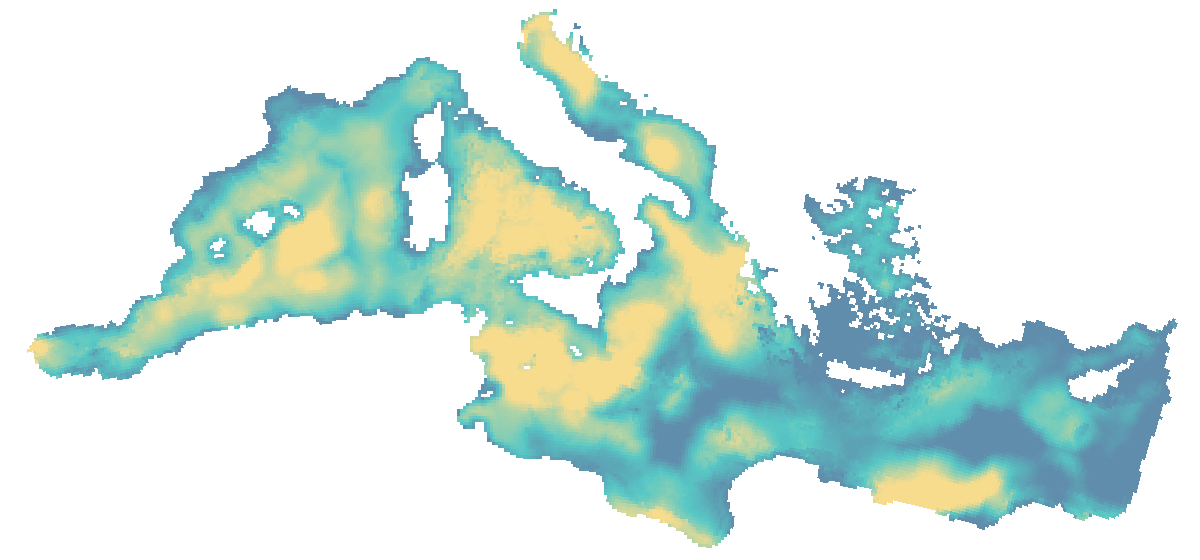
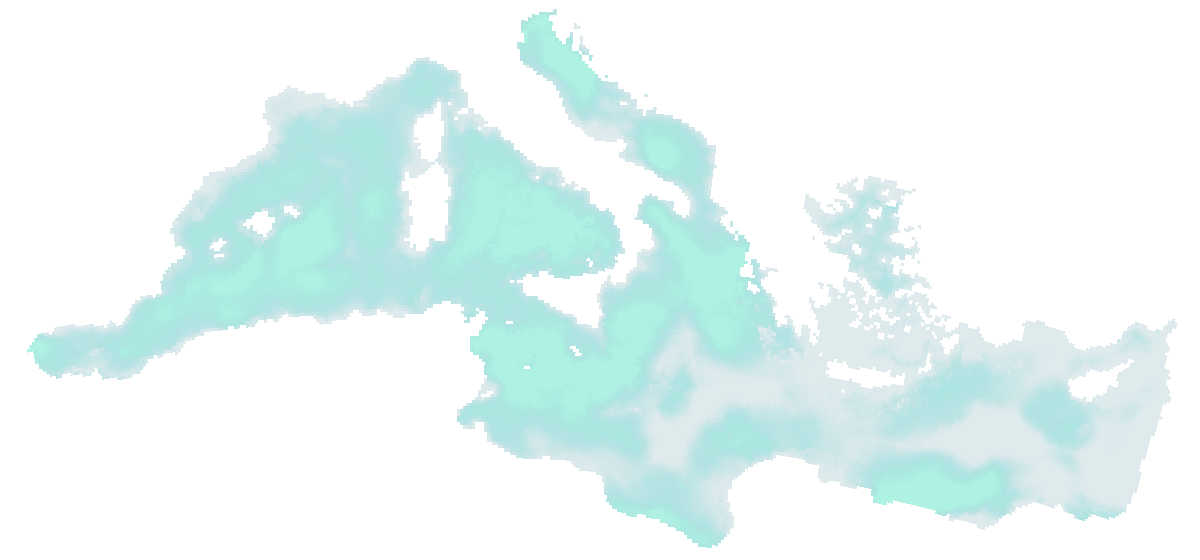
Restore illustrated flow and soften turtle model view (#17)

diff --git a/src/MapView.tsx b/src/MapView.tsx
@@ -22,10 +22,10 @@ function fallbackPosition(longitude: number, latitude: number): [number, number]
     (north - latitude) / (north - south) * fallbackHeight];
 }
 
-function fallbackLandPath(): string {
+function fallbackLandPath(position: (longitude: number, latitude: number) => [number, number]): string {
   const features = land.type === 'FeatureCollection' ? land.features : [land];
   const ringPath = (ring: number[][]) => ring.map(([lon, lat], index) => {
-    const [x, y] = fallbackPosition(lon, lat);
+    const [x, y] = position(lon, lat);
     return `${index ? 'L' : 'M'}${x.toFixed(1)},${y.toFixed(1)}`;
   }).join('') + 'Z';
   return features.flatMap(item => {
@@ -35,7 +35,27 @@ function fallbackLandPath(): string {
   }).join('');
 }
 
-const fallbackCoast = fallbackLandPath();
+const fallbackCoast = fallbackLandPath(fallbackPosition);
+
+function illustrativeFallback(selected: SpeciesDataset) {
+  const cells = [...selected.habitat.current, ...selected.habitat.future];
+  const west = Math.min(...cells.map(cell => cell.center[0] - cell.widthDeg / 2)) - 6;
+  const east = Math.max(...cells.map(cell => cell.center[0] + cell.widthDeg / 2)) + 6;
+  const south = Math.min(...cells.map(cell => cell.center[1] - cell.heightDeg / 2)) - 5;
+  const north = Math.max(...cells.map(cell => cell.center[1] + cell.heightDeg / 2)) + 5;
+  const position = (lon: number, lat: number): [number, number] => [
+    (lon - west) / (east - west) * fallbackWidth,
+    (north - lat) / (north - south) * fallbackHeight
+  ];
+  const path = (points: [number, number][]) => points.map(([lon, lat], index) => {
+    const [x, y] = position(lon, lat);
+    return `${index ? 'L' : 'M'}${x.toFixed(1)},${y.toFixed(1)}`;
+  }).join('');
+  return { position, path, coast: fallbackLandPath(position),
+    current: displayCells(selected, 'current'), future: displayCells(selected, 'future'),
+    currentCenters: selected.habitat.current, futureCenters: selected.habitat.future,
+    strands: displayStreamlines(selected).filter((_, index) => index % 3 === 0) };
+}
 
 const graticule = {
   type: 'FeatureCollection' as const,
@@ -76,8 +96,8 @@ function flowSegments(flow: DisplayFlow, start: number, end: number): Segment[] 
   }).filter((segment): segment is Segment => segment !== null);
 }
 
-export function MapView({ selected }: { selected: SpeciesDataset }) {
-  const realLayer = selected.id === 'loggerhead-turtle';
+export function MapView({ selected, showModel }: { selected: SpeciesDataset; showModel: boolean }) {
+  const realLayer = showModel;
   const container = useRef<HTMLDivElement>(null);
   const map = useRef<maplibregl.Map | null>(null);
   const overlay = useRef<MapLibreOverlay | null>(null);
@@ -298,6 +318,8 @@ export function MapView({ selected }: { selected: SpeciesDataset }) {
     return () => cancelAnimationFrame(frame);
   }, [selected, ready, realLayer]);
 
+  const demoFallback = webglUnavailable && !realLayer ? illustrativeFallback(selected) : null;
+
   return (
     <div className="map-wrap">
       <div ref={container} className="map-canvas" style={webglUnavailable ? { display: 'none' } : undefined} role="img" aria-label={realLayer ? `Mapa de zonas de abundancia relativa modelada de tortuga boba en el Mediterráneo, promedio anual de 2003 a 2018. Las zonas sin color carecen de estimación; no hay proyección a 2050.` : `Mapa de hábitat ilustrativo actual y en 2050 para ${selected.commonNameEs}; los trazos aparecen en las celdas actuales y avanzan hasta las de 2050, sin rutas permanentes ni trayectorias reales de animales`} />
@@ -308,7 +330,18 @@ export function MapView({ selected }: { selected: SpeciesDataset }) {
           <path d={fallbackCoast} fill="#bbccc9" fillRule="evenodd" stroke="#e1eae0" strokeWidth="1.5" />
         </svg>
         <div className="fallback-note">Modelo de abundancia relativa · vista simplificada sin WebGL2</div>
-      </div> : <div className="fallback-map fallback-message">El mapa ilustrativo requiere WebGL2. Prueba otro navegador para verlo.</div>)}
+      </div> : demoFallback && <div className="fallback-map">
+        <svg viewBox={`0 0 ${fallbackWidth} ${fallbackHeight}`} role="img" aria-label={`Flujos ilustrativos para ${selected.commonNameEs}; los trazos no son rutas reales`}>
+          <rect width={fallbackWidth} height={fallbackHeight} fill="#071c29" />
+          <path d={demoFallback.coast} fill="#bbccc9" fillRule="evenodd" stroke="#e1eae0" strokeWidth="1.5" />
+          {demoFallback.current.map(cell => <path key={`now-${cell.id}`} d={`${demoFallback.path(cell.polygon)}Z`} fill="#50dcdd" fillOpacity=".13" stroke="#83e9df" strokeOpacity=".5" />)}
+          {demoFallback.future.map(cell => <path key={`then-${cell.id}`} d={`${demoFallback.path(cell.polygon)}Z`} fill="#fc9dcb" fillOpacity=".09" stroke="#f7a3cd" strokeOpacity=".5" />)}
+          {demoFallback.strands.map((strand, index) => <path key={strand.id} className="fallback-flow" d={demoFallback.path(strand.path)} pathLength="1" style={{ animationDelay: `${-(index * .618 % 1) * 5}s` }} />)}
+          {demoFallback.currentCenters.map(cell => { const [x, y] = demoFallback.position(...cell.center); return <circle key={`start-${cell.id}`} cx={x} cy={y} r="3" fill="#83f3e5" />; })}
+          {demoFallback.futureCenters.map(cell => { const [x, y] = demoFallback.position(...cell.center); return <circle key={`end-${cell.id}`} cx={x} cy={y} r="3" fill="#ffa8d0" />; })}
+        </svg>
+        <div className="fallback-note">Flujo ilustrativo · vista simplificada sin WebGL2</div>
+      </div>)}
       <div className="map-stamp"><span className="pulse" /> {realLayer ? 'MODELO CIENTÍFICO · 2003–2018' : 'FLUJOS ILUSTRATIVOS · DATOS SINTÉTICOS'}</div>
       <div className="map-credit">Siluetas geográficas: Natural Earth / world-atlas · Sin teselas externas</div>
       {hover && <div className="map-tooltip" style={{ left: hover.x + 14, top: hover.y + 14 }}>

diff --git a/src/App.tsx b/src/App.tsx
@@ -12,8 +12,10 @@ const groups = [
 
 export default function App() {
   const [selectedId, setSelectedId] = useState('loggerhead-turtle');
+  const [showModel, setShowModel] = useState(false);
   const selected = species.find(item => item.id === selectedId) ?? species[0];
-  const realLayer = selected.id === 'loggerhead-turtle';
+  const realLayer = selected.id === 'loggerhead-turtle' && showModel;
+  const chooseSpecies = (id: string) => { setSelectedId(id); setShowModel(false); };
 
   return (
     <div className="app-shell">
@@ -26,16 +28,16 @@ export default function App() {
         <aside className="selector-panel" aria-label="Selección de especie">
           <div className="section-index">01 / EXPLORAR</div>
           <h2>Un océano.<br /><em>Muchas posibilidades.</em></h2>
-          <p className="intro">La tortuga boba muestra zonas estimadas a partir de muestreos científicos del Mediterráneo. Las otras especies siguen siendo ejemplos visuales.</p>
+          <p className="intro">Explora los flujos visuales de cada especie. Para la tortuga boba también puedes consultar una capa real de distribución modelada en el Mediterráneo.</p>
           <div className="fine-rule" />
           <label className="field-label" htmlFor="species-select">SELECCIONA UNA ESPECIE</label>
-          <select id="species-select" value={selectedId} onChange={event => setSelectedId(event.target.value)}>
+          <select id="species-select" value={selectedId} onChange={event => chooseSpecies(event.target.value)}>
             {species.map(item => <option value={item.id} key={item.id}>{item.commonNameEs}</option>)}
           </select>
           <div className="species-list" aria-label="Especies disponibles">
             {groups.filter(group => species.some(item => group.id === 'other' ? !item.group : item.group === group.id)).map(group => <div className="species-group" key={group.id}>
               <div className="species-group-label">{group.label}</div>
-              {species.filter(item => group.id === 'other' ? !item.group : item.group === group.id).map(item => <button key={item.id} type="button" className={`species-row ${selected.id === item.id ? 'active' : ''}`} aria-pressed={selected.id === item.id} onClick={() => setSelectedId(item.id)}>
+              {species.filter(item => group.id === 'other' ? !item.group : item.group === group.id).map(item => <button key={item.id} type="button" className={`species-row ${selected.id === item.id ? 'active' : ''}`} aria-pressed={selected.id === item.id} onClick={() => chooseSpecies(item.id)}>
                 <span className="species-number">{String(species.indexOf(item) + 1).padStart(2, '0')}</span><span className="species-text"><strong>{item.commonNameEs}</strong><small>{item.scientificName}</small></span><span className="species-arrow" aria-hidden="true">↗</span>
               </button>)}
             </div>)}
@@ -44,9 +46,9 @@ export default function App() {
         </aside>
 
         <section className="map-panel" aria-label="Comparación de hábitat">
-          <div className="map-header"><div><div className="section-index">02 / VISUALIZAR</div><h2>{realLayer ? 'Zonas estimadas en el Mediterráneo' : 'Un océano en movimiento'}</h2></div><div className="coordinates">{realLayer ? '2003–2018' : <>ACTUAL <span>→</span> 2050</>}</div></div>
+          <div className="map-header"><div><div className="section-index">02 / VISUALIZAR</div><h2>{realLayer ? 'Zonas estimadas en el Mediterráneo' : 'Un océano en movimiento'}</h2></div><div className="map-header-actions">{selected.id === 'loggerhead-turtle' && <button className="view-switch" type="button" onClick={() => setShowModel(value => !value)}>{realLayer ? '← Volver al flujo' : 'Ver modelo científico →'}</button>}<div className="coordinates">{realLayer ? '2003–2018' : <>ACTUAL <span>→</span> 2050</>}</div></div></div>
           <div className="map-stage">
-            <MapView selected={selected} />
+            <MapView selected={selected} showModel={realLayer} />
             {realLayer ? <div className="flow-key real-key" aria-label="Colores: abundancia relativa modelada de menor a mayor"><span><i className="density-key" /> Zonas modeladas · menor → mayor</span></div> : <div className="flow-key" aria-label="Turquesa: hábitat actual; rosa: hábitat en 2050">
               <span><i className="flow-key-current" /> Actual</span>
               <b aria-hidden="true">→</b>

diff --git a/src/styles.css b/src/styles.css
@@ -18,4 +18,11 @@
 @media(max-width:850px){.source-note{margin-top:15px}}
 
 .fallback-map{position:absolute;inset:0;display:grid;place-items:center;background:#0b3245}.fallback-map svg{display:block;width:100%;height:100%}.fallback-note{position:absolute;left:14px;bottom:18px;max-width:calc(100% - 28px);background:#071f2deb;color:#bde6e2;padding:8px;font-size:10px;line-height:1.4}.fallback-message{padding:45px;color:#bde6e2;text-align:center;font-size:14px}
-.flow-key .density-key{width:55px;height:10px;border-radius:1px;background:linear-gradient(90deg,#135684,#25b8b4,#f6d67c);box-shadow:none;flex:none}
+.flow-key .density-key{width:55px;height:10px;border-radius:1px;background:linear-gradient(90deg,#206479,#39adaf,#93edda);box-shadow:none;flex:none}
+
+.map-header-actions{display:flex;align-items:center;gap:17px}.view-switch{border:1px solid #518c8d;border-radius:2px;background:#113944;color:#a8eee4;font-size:11px;font-weight:650;letter-spacing:.02em;padding:10px 12px;white-space:nowrap;transition:background .2s,border-color .2s}.view-switch:hover,.view-switch:focus-visible{background:#1c515a;border-color:#8ae1d5}.view-switch:focus-visible{outline:2px solid #e7a7ce;outline-offset:2px}
+.fallback-flow{fill:none;stroke:#70e9e2;stroke-width:2.3;stroke-linecap:round;stroke-dasharray:1;stroke-dashoffset:1;filter:drop-shadow(0 0 4px #64eee9);animation:fallback-flow-draw 5s linear infinite}
+@keyframes fallback-flow-draw{0%{stroke-dashoffset:1;opacity:0}8%{opacity:.85}65%{stroke-dashoffset:0;opacity:.9}78%{stroke-dashoffset:0;opacity:.9}100%{stroke-dashoffset:-1;opacity:0}}
+@media(prefers-reduced-motion:reduce){.fallback-flow{display:none}}
+@media(max-width:1200px){.map-header-actions{gap:10px}.coordinates{display:none}}
+@media(max-width:540px){.map-header{align-items:center}.map-header h2{font-size:18px}.view-switch{max-width:155px;white-space:normal;text-align:center;font-size:10px}}

diff --git a/python/ocean_pipeline/render_density.py b/python/ocean_pipeline/render_density.py
@@ -76,14 +76,17 @@ def render(source: Path, image_path: Path, manifest_path: Path) -> dict:
     intensity = np.zeros((HEIGHT, WIDTH))
     intensity[shown] = np.clip((np.log(sample[shown]) - np.log(p10)) /
                                (np.log(p90) - np.log(p10)), 0, 1)
-    stops = np.array([[19, 86, 132], [37, 184, 180], [246, 214, 124]])
+    # Keep the surveyed basin readable as water: muted blue for lower model
+    # values, sea green for the middle and a soft cyan glow for higher values.
+    # Opacity rises with the relative value, so the map is not a solid block.
+    stops = np.array([[31, 105, 126], [47, 175, 177], [147, 237, 218]])
     color = np.empty((HEIGHT, WIDTH, 4), dtype=np.uint8)
     midpoint = intensity < .5
     for channel in range(3):
         color[:, :, channel] = np.where(midpoint,
             stops[0, channel] + intensity * 2 * (stops[1, channel] - stops[0, channel]),
             stops[1, channel] + (intensity - .5) * 2 * (stops[2, channel] - stops[1, channel]))
-    color[:, :, 3] = np.where(shown, 172 + 47 * intensity, 0).astype(np.uint8)
+    color[:, :, 3] = np.where(shown, 36 + 154 * intensity ** 1.6, 0).astype(np.uint8)
     image_path.parent.mkdir(parents=True, exist_ok=True)
     Image.fromarray(color, "RGBA").save(image_path, optimize=True)
 
@@ -105,6 +108,7 @@ def render(source: Path, image_path: Path, manifest_path: Path) -> dict:
         },
         "rendering": {
             "method": "Nearest native EPSG:3035 model cell reprojected to WGS84; positive valid cells shaded with a log scale between source p10 and p90; nodata transparent.",
+            "palette": "Muted blue to sea green to cyan; opacity increases from 36 to 190 by relative value.",
             "variable": "abundance", "units": "unspecified by source; relative values only",
             "modelCells": int(valid_source.size), "shownPixels": int(shown.sum()),
             "sourceQuantiles": {"p10": p10, "p50": p50, "p90": p90},

diff --git a/README.md b/README.md
@@ -1,14 +1,15 @@
 # Océano en Movimiento
 
-An experimental marine map with one published model layer and six
+An experimental marine map with a published loggerhead model layer and seven
 illustrative habitat views. The interface is in Spanish; this technical
 documentation and the code are in English.
 
-**The initial tortuga boba view shows modeled relative abundance zones** across
-the Mediterranean from a published 2003–2018 survey-based model. The source
-model was reprojected by EMODnet Biology; the colors compare its values and
-do not establish precise habitat boundaries or predict 2050.
-The other six views use hand-authored synthetic fixtures. They are not OBIS records,
+**The initial tortuga boba view restores the animated illustrative flow.**
+Its **Ver modelo científico** control opens separate modeled relative abundance
+zones across the Mediterranean from a published 2003–2018 survey-based model.
+The source model was reprojected by EMODnet Biology; the colors compare its
+values and do not establish precise habitat boundaries or predict 2050.
+All seven illustrative flow views use hand-authored synthetic fixtures. They are not OBIS records,
 Bio-ORACLE layers, scientific forecasts, real animal positions or validated
 species distribution models. The animated streamlines between matching synthetic
 habitat cells are a graphic illustration, not GPS routes, modeled corridors
@@ -26,10 +27,10 @@ npm run dev
 ```
 
 Open the local URL printed by Vite, normally `http://localhost:5173`.
-The page opens on loggerhead turtle model zones. Dark blue means lower and
-yellow means higher relative modeled values; uncolored water has no model
-estimate. Choose another
-species to see **Actual** and **2050** habitat cells together,
+The page opens on the loggerhead's illustrative flow. Choose **Ver modelo
+científico** to see its separate survey-based zones: subdued blue means lower
+and brighter cyan means higher relative modeled values; uncolored water has no
+model estimate. Choose another species to see **Actual** and **2050** habitat cells together,
 with animated strokes connecting matching synthetic cells. Each stroke grows
 from current to 2050, its tail follows, and it disappears on arrival. There are
 no permanent route lines or moving point markers. Different regions can shift
@@ -44,7 +45,8 @@ The map frames
 the selected species automatically; drag/zoom to explore farther and
 hover a colored cell for its illustrative suitability and uncertainty. The
 layout adapts to narrower screens. Reduced-motion settings show the cells and
-endpoints without animated strokes.
+endpoints without animated strokes. Browsers without WebGL2 use a simplified
+SVG flow animation and model image.
 
 ```bash
 npm run lint
